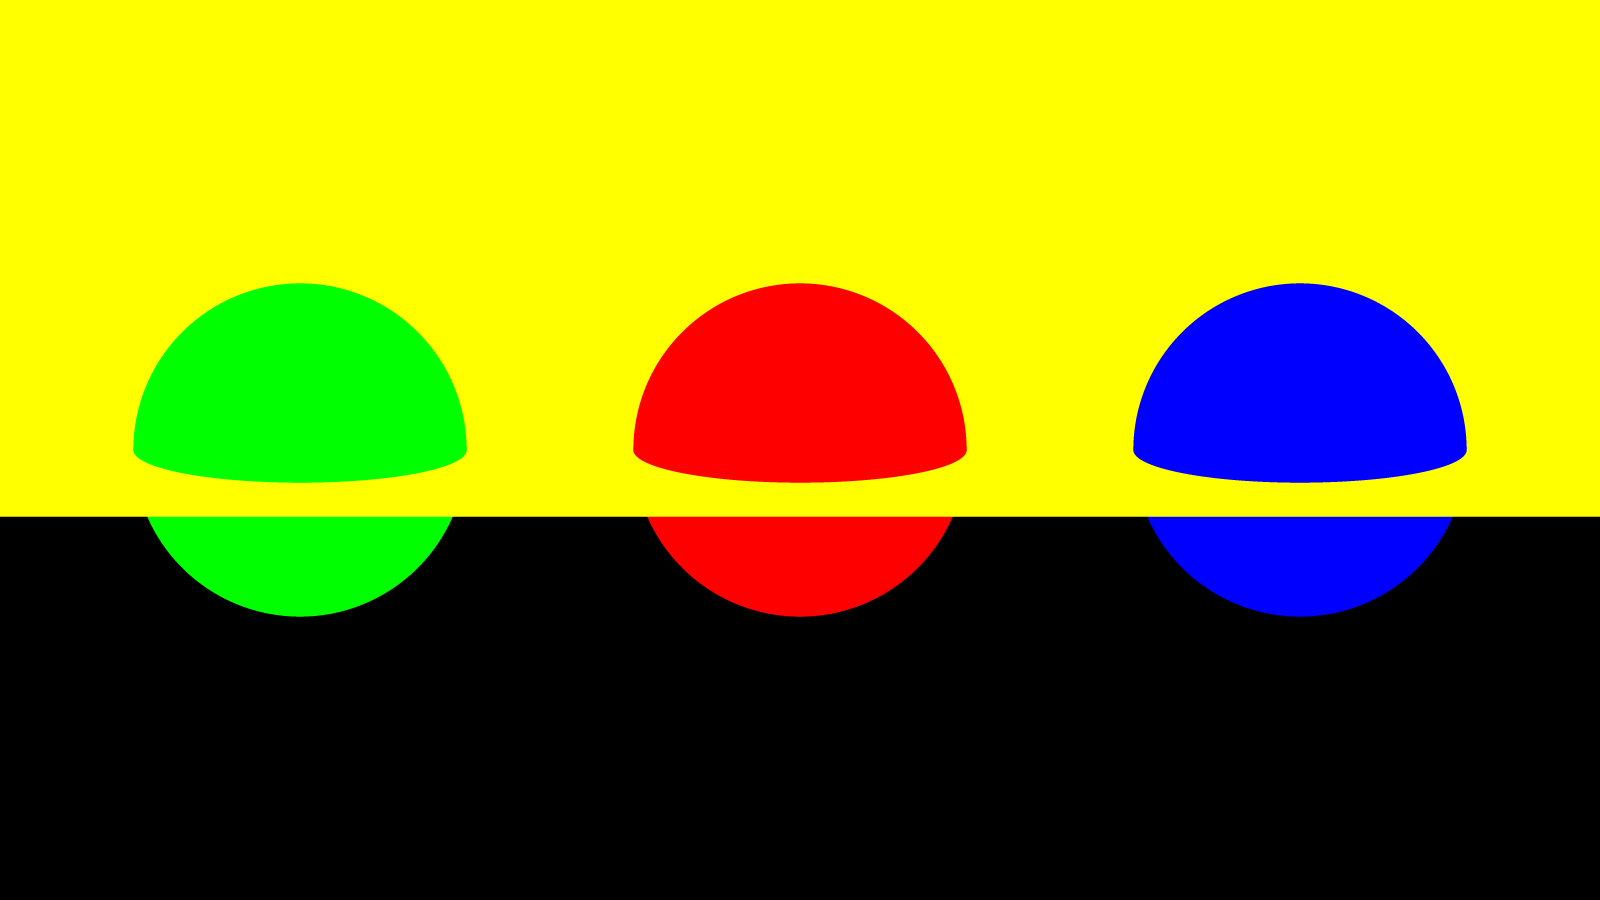
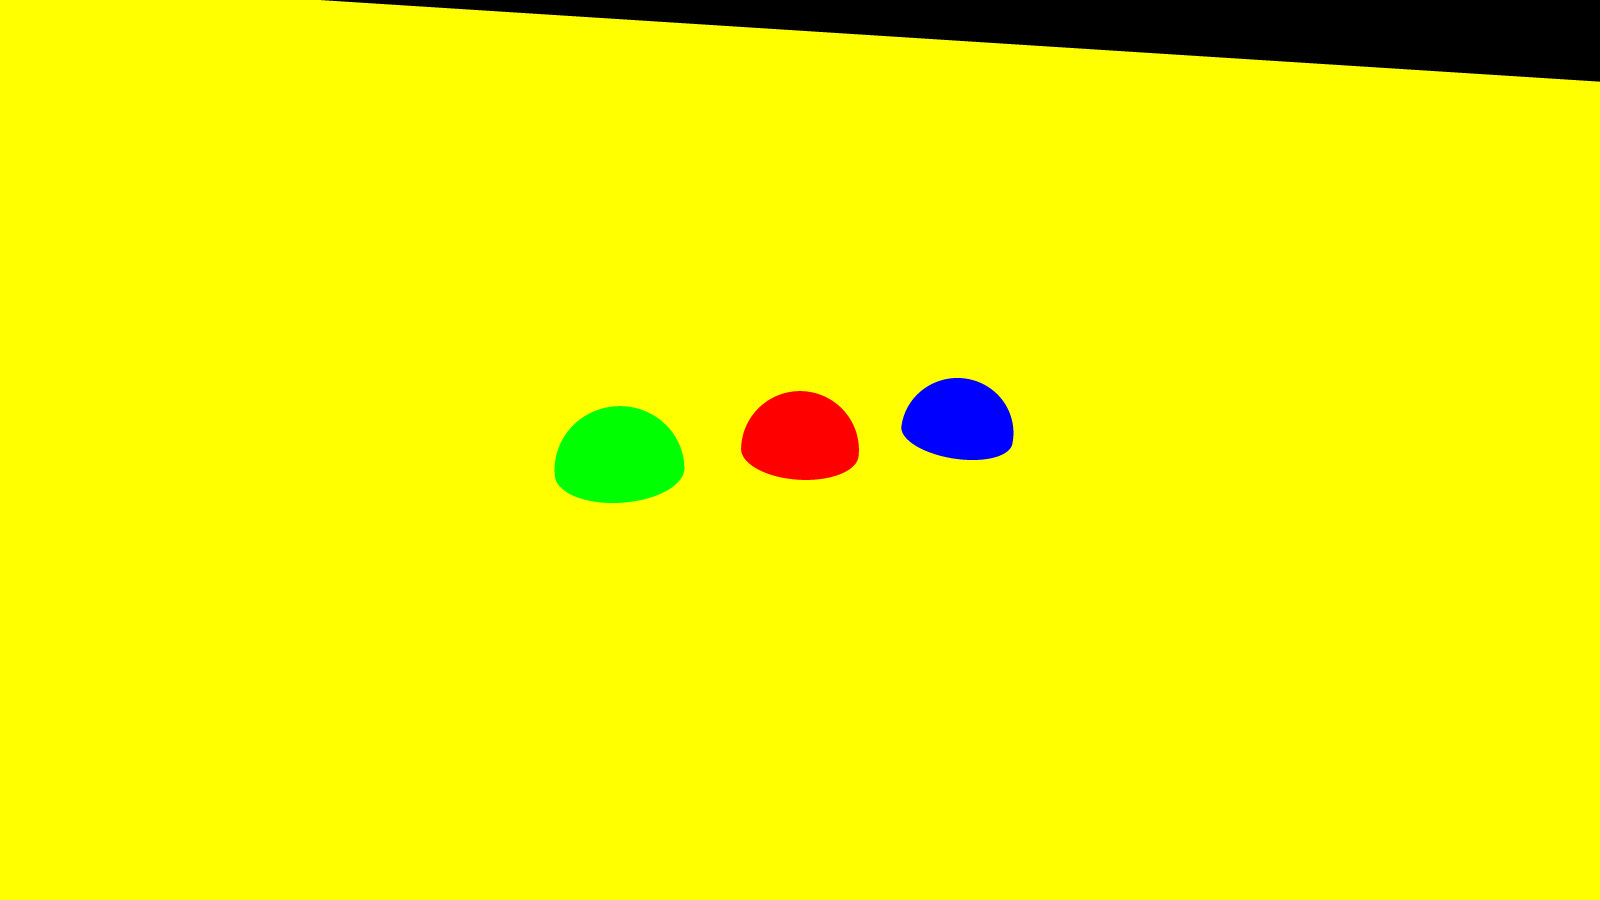
Uebung 5

diff --git a/src/main/Driver.java b/src/main/Driver.java
@@ -2,6 +2,7 @@ package main;
 
 import geometry.Sphere;
 import projection.Orthographic;
+import projection.Perspective;
 import projection.Projection;
 import sampling.JitteredSample;
 import sampling.RegularSample;
@@ -21,17 +22,14 @@ public class Driver
 
 
     public static void main(String[] args){
-        world = new World(1600, 900, 0.3);
+        world = new World(1600, 900, 1.0);
         image = new Image("Image.png");
         tracer = new Tracer();
         sampler = new RegularSample(4);
         //sampler = new JitteredSample(8);
-        projection = new Orthographic();
+        projection = new Perspective(new Point3D(-200.0,200.0, 600.0), new Point3D(0.0,0.0,0.0), 30.0);
 
         long start = System.nanoTime();
-
-        Random r = new Random();
-        Sphere sphere = new Sphere(new Point3D(0,0,0),60,new Color(1,0,0,0));
 
         for (int i = 0; i < world.viewPlane.height;i++) {
             for (int j = 0; j < world.viewPlane.width; j++) {

diff --git a/src/projection/Perspective.java b/src/projection/Perspective.java
@@ -1,0 +1,27 @@
+package projection;
+
+import main.Driver;
+import utility.Point2D;
+import utility.Point3D;
+import utility.Ray;
+import utility.Vector3D;
+
+public class Perspective extends Projection
+{
+    public Perspective(Point3D eye, Point3D lookAt, double FOV) //FOV = Field of View
+    {
+        this.eye = new Point3D(eye);
+        this.lookAt = new Point3D(lookAt);
+        this.distance = Driver.world.viewPlane.height/2.0/Math.tan(Math.toRadians(FOV));
+
+        compute_uvw();
+    }
+
+    @Override
+    public Ray createRay(Point2D point) {
+        Ray ray = new Ray(new Point3D(eye), u.multi(point.x).add(v.multi(point.y).sub(w.multi(distance))));
+        ray.direction.normalize();
+
+        return ray;
+    }
+}

diff --git a/src/utility/Vector3D.java b/src/utility/Vector3D.java
@@ -33,6 +33,11 @@ public class Vector3D
         return new Vector3D(x - vector.x, y - vector.y, z - vector.z);
     }
 
+    public Vector3D multi(double scalar)
+    {
+        return new Vector3D(x*scalar,y*scalar,z*scalar);
+    }
+
     public double dot(Vector3D vector)
     {
         return x * vector.x + y * vector.y + z * vector.z;
@@ -56,4 +61,11 @@ public class Vector3D
         z /= magnitude;
     }
 
+    public Vector3D cross(Vector3D v) {
+        return new Vector3D(
+                this.y * v.z - this.z * v.y,
+                this.z * v.x - this.x * v.z,
+                this.x * v.y - this.y * v.x
+        );
+    }
 }

diff --git a/src/projection/Projection.java b/src/projection/Projection.java
@@ -1,9 +1,30 @@
 package projection;
 
 import utility.Point2D;
+import utility.Point3D;
 import utility.Ray;
+import utility.Vector3D;
 
 public abstract class Projection
 {
+    public Point3D eye;
+    public Point3D lookAt;
+    public double distance;
+    public Vector3D u, v, w;
+
     public abstract Ray createRay(Point2D point);
+
+    public void compute_uvw()
+    {
+        w = eye.sub_vec(lookAt);
+        w.normalize();
+
+        Vector3D up = new Vector3D(0.00424, 1.0, 0.00764);
+
+        u = up.cross(w);
+        u.normalize();
+
+        v = w.cross(u);
+        v.normalize();
+    }
 }

diff --git a/src/utility/Point3D.java b/src/utility/Point3D.java
@@ -34,6 +34,11 @@ public class Point3D {
         return new Point3D(this.x-point3D.x,this.y-point3D.y,this.z-point3D.z);
     }
 
+    public Vector3D sub_vec(Point3D point3D)
+    {
+        return new Vector3D(this.x-point3D.x,this.y-point3D.y,this.z-point3D.z);
+    }
+
     public double dot(Point3D point3D)
     {
         return x*point3D.x+y*point3D.y+z*point3D.z;
